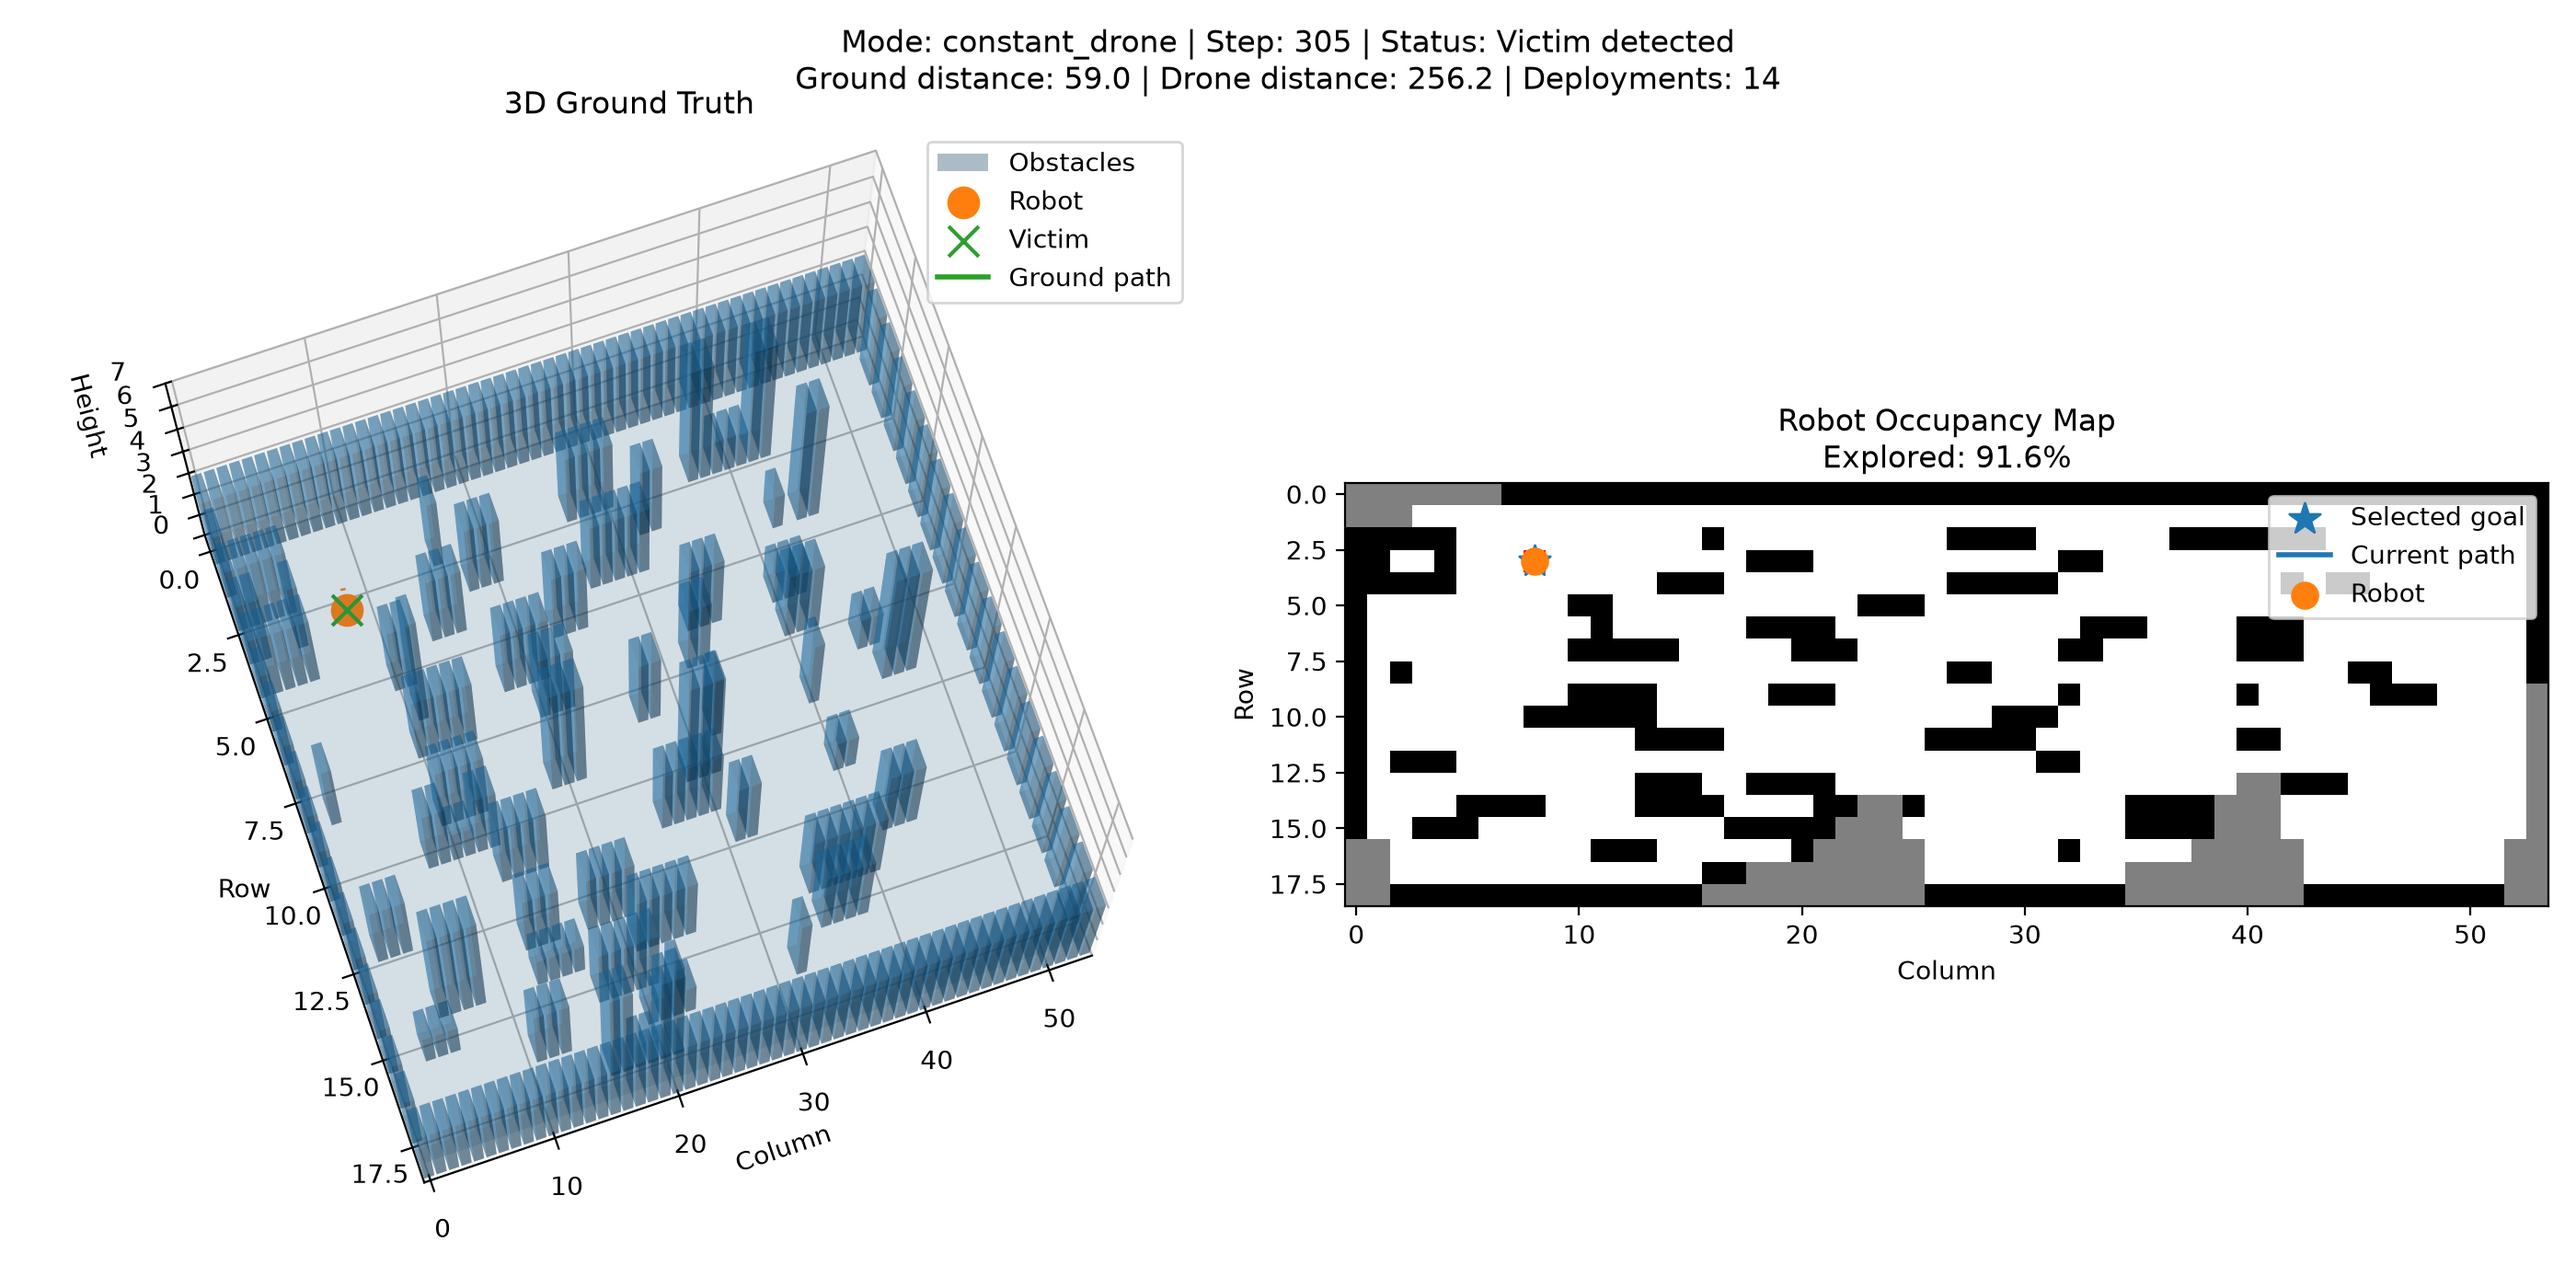
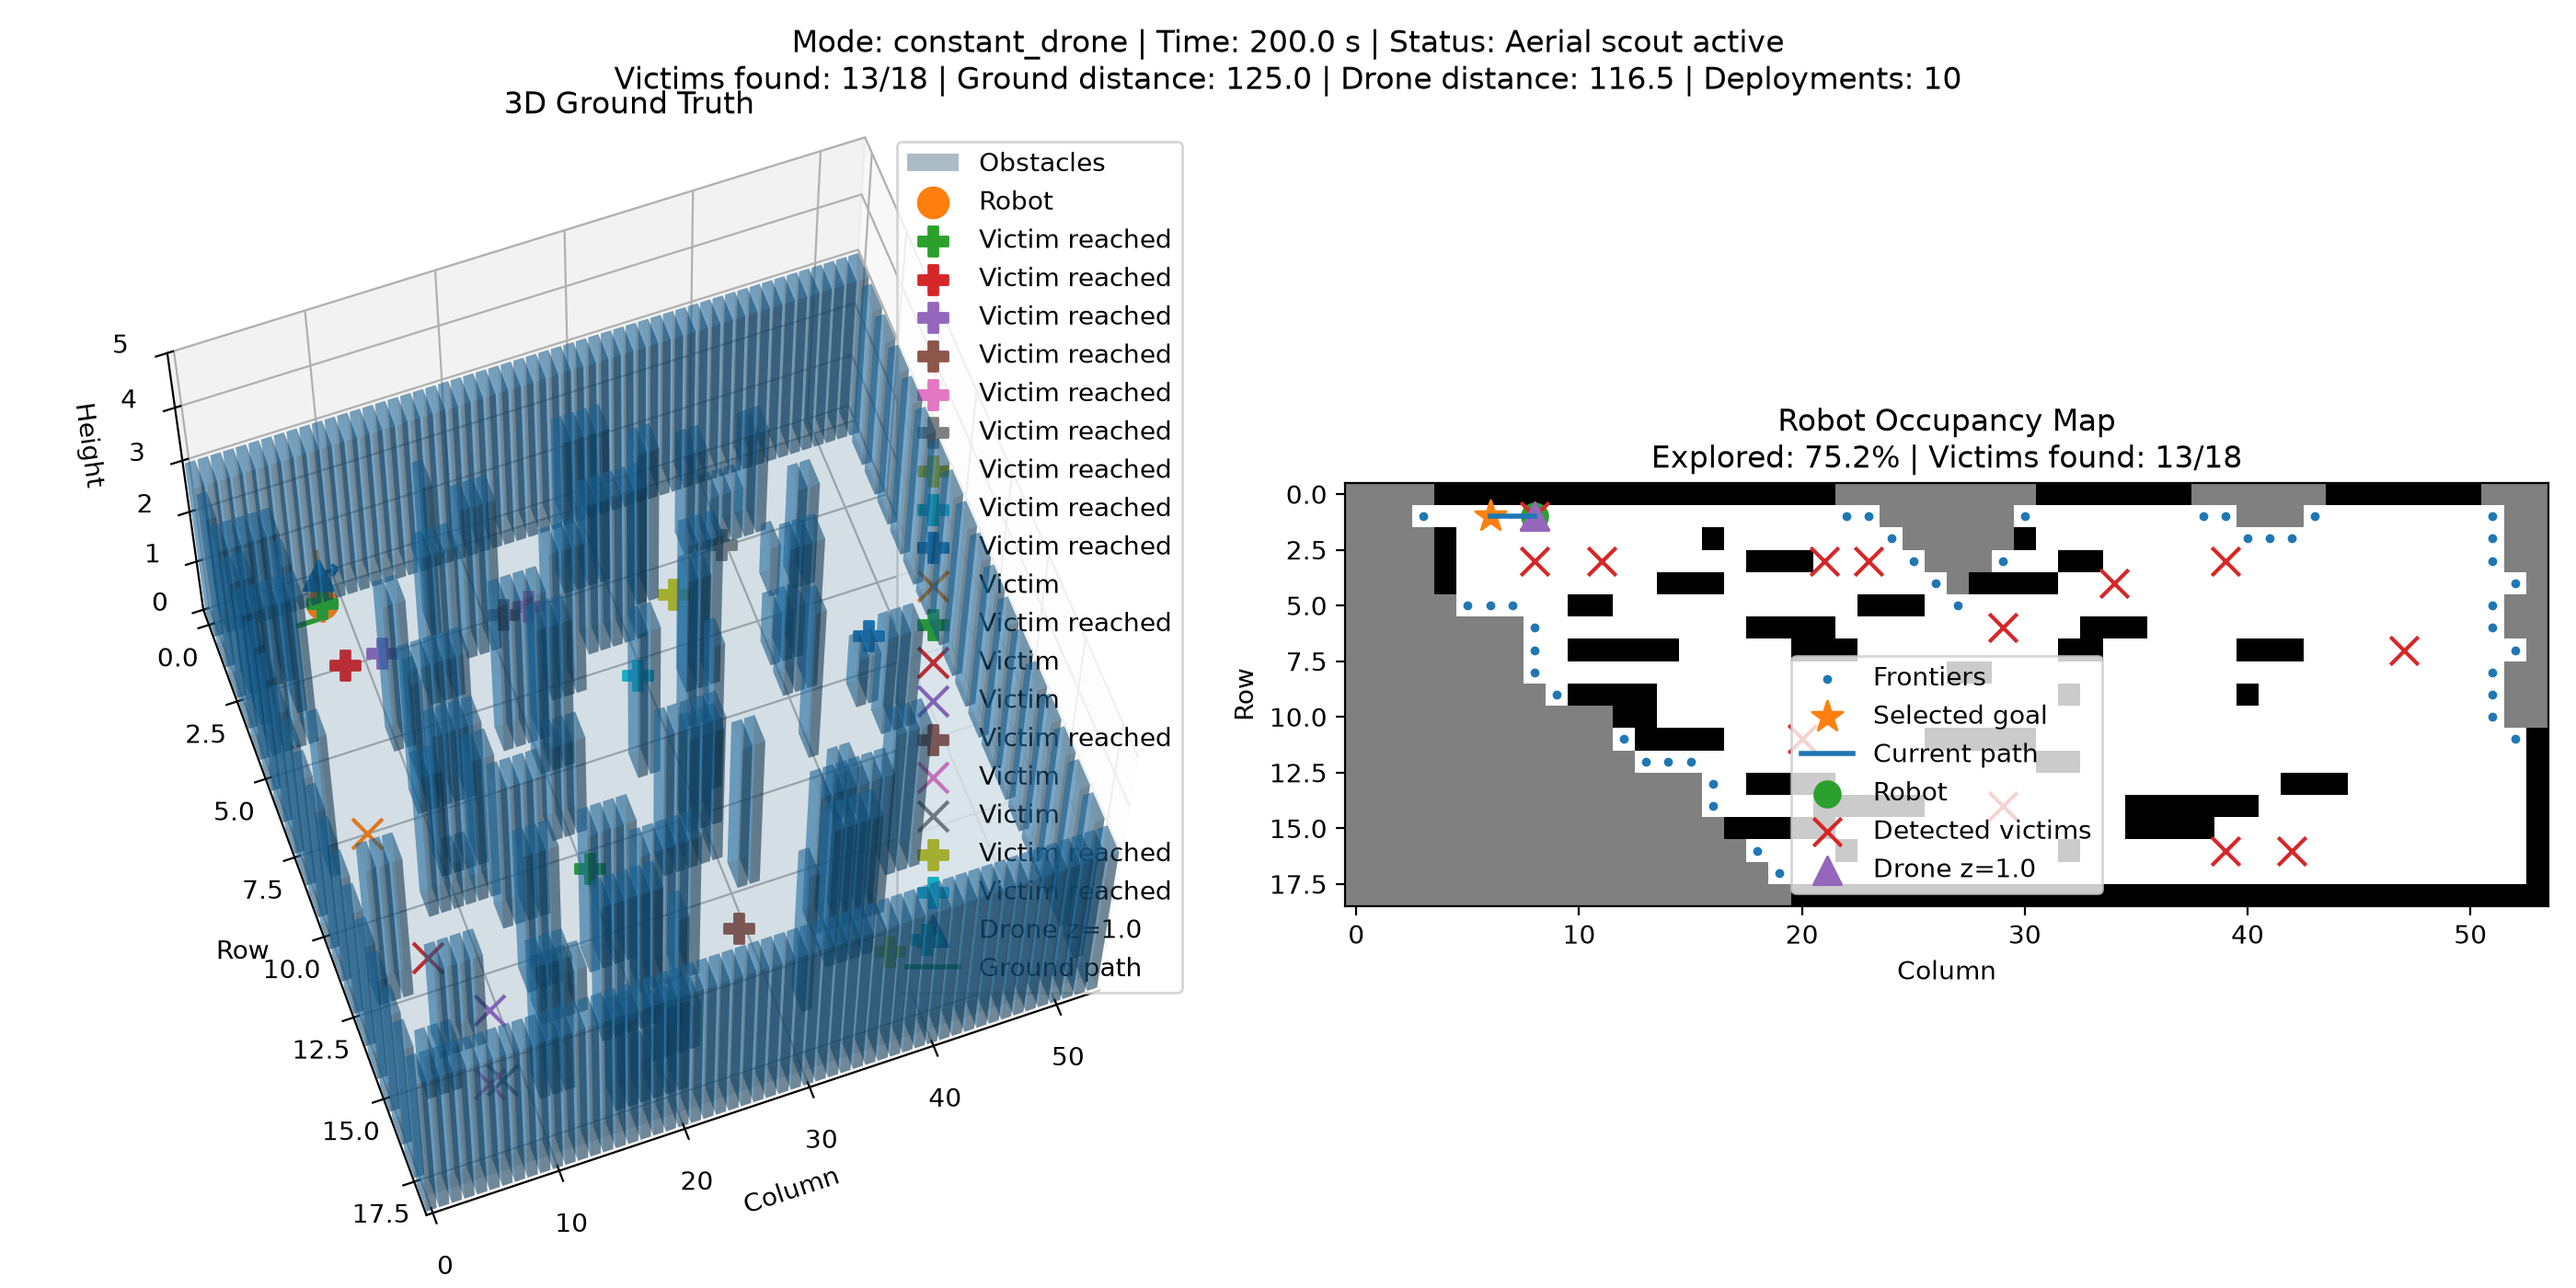
functionality and testing done

diff --git a/main.py b/main.py
@@ -453,7 +453,25 @@ def main():
 
         percent_explored = occupancy_map.percent_explored()
 
-        if percent_explored >= EXPLORATION_COMPLETE_PERCENT:
+        unreached_detected_victims = [
+            victim
+            for victim in environment.victims
+            if victim.detected and not victim.reached
+        ]
+
+        all_victims_reached = all(
+            victim.reached
+            for victim in environment.victims
+        )
+
+        if all_victims_reached:
+            completion_reason = "all_victims_rescued"
+            break
+
+        if (
+            percent_explored >= EXPLORATION_COMPLETE_PERCENT
+            and len(unreached_detected_victims) == 0
+        ):
             completion_reason = "95_percent_explored"
             break
 
@@ -484,7 +502,25 @@ def main():
         if len(exploration_history) > PROGRESS_WINDOW:
             exploration_history.pop(0)
 
-        if percent_explored >= EXPLORATION_COMPLETE_PERCENT:
+        unreached_detected_victims = [
+            victim
+            for victim in environment.victims
+            if victim.detected and not victim.reached
+        ]
+
+        all_victims_reached = all(
+            victim.reached
+            for victim in environment.victims
+        )
+
+        if all_victims_reached:
+            completion_reason = "all_victims_rescued"
+            break
+
+        if (
+            percent_explored >= EXPLORATION_COMPLETE_PERCENT
+            and len(unreached_detected_victims) == 0
+        ):
             completion_reason = "95_percent_explored"
             break
 

diff --git a/config.py b/config.py
@@ -1,4 +1,4 @@
-MAP_FILE = "maps/map4.txt"
+MAP_FILE = "maps/map7.txt"
 
 # cell values
 UNKNOWN = -1
